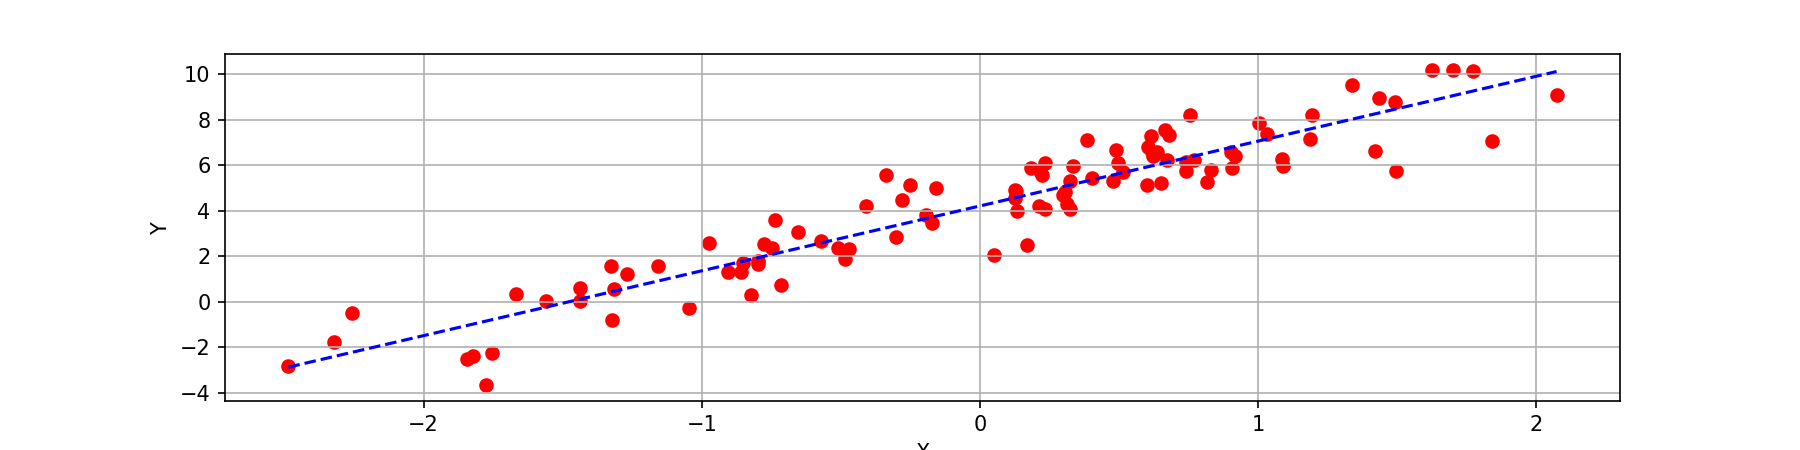
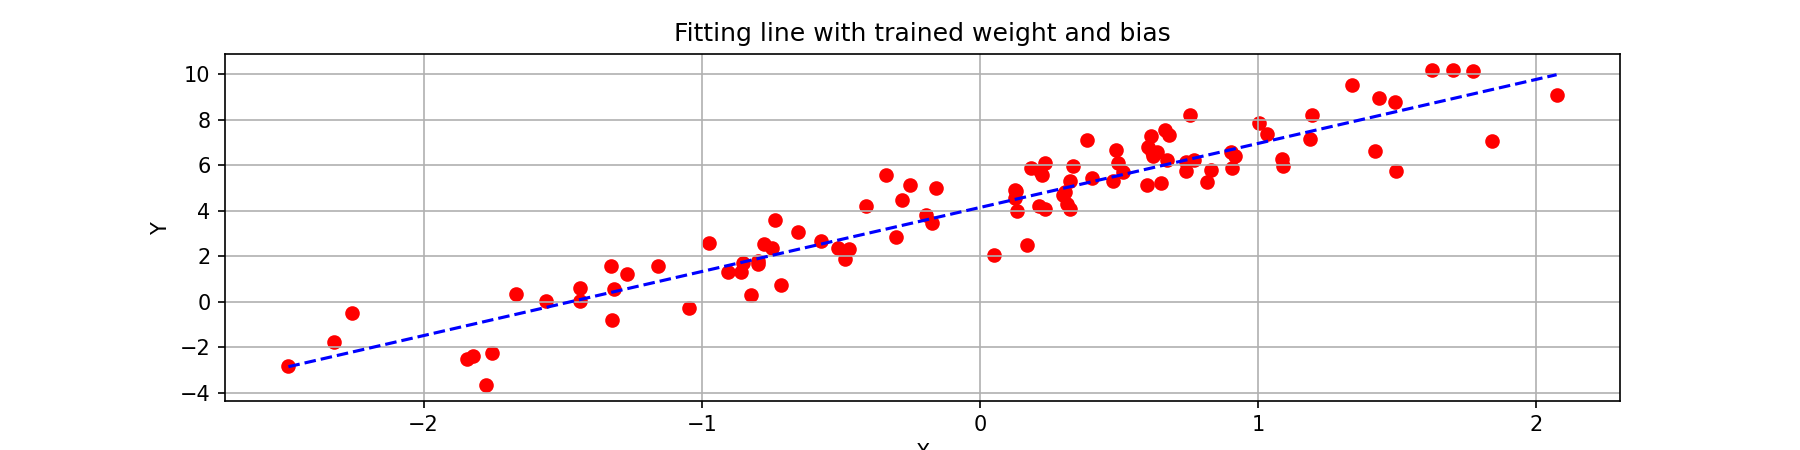
gradient descent

diff --git a/_posts/2023-01-07-gradient-descent.md b/_posts/2023-01-07-gradient-descent.md
@@ -160,9 +160,11 @@ plt.show()
 
 ![gd-loss-update](gd-cost-update.png)
 
+Kết quả của 2 tham số weight và bias sau khi sử dụng GD là 2.84 và 4.20, khá gần với giá trị giả sử ban đầu. Rất khó để ta có thể tìm được giá trị thực như giả sử vì các data còn bị ảnh hưởng bởi nhiễu bên ngoài. Trong thực tế, việc xác định được xu hướng đúng và giá trị loss thấp vừa phải đã là thành công đối với các ML model.
+
 ![fit-line](fit-line.png)
 
-Kết quả của 2 tham số weight và bias sau khi sử dụng GD là 2.84 và 4.20, khá gần với giá trị giả sử ban đầu. Rất khó để ta có thể tìm được giá trị thực như giả sử vì các data còn bị ảnh hưởng bởi nhiễu bên ngoài. Trong thực tế, việc xác định được xu hướng đúng và giá trị loss thấp vừa phải đã là thành công đối với các ML model.
+Ngoài ra, còn một tham số nữa cũng rất quan trọng như đã đề cập ở phần trên, đó là `learning_rate`. Hình dưới minh họa quá trình optimize của GD khi ta đặt các giá trị `learning_rate` khác nhau. Có thể thấy, nếu ta chọn được các tham số phù hợp, ta có thể tìm được weight và bias gần với giá trị đúng nhất. Ngược lại, nếu tham số ta chọn không hiệu quả có thể làm model không thể hoặc rất lâu mới tìm được tham số optimal cho weight và bias.
 
 ![gd-update-0.01](gd-update-0.01_0001.gif)
 
